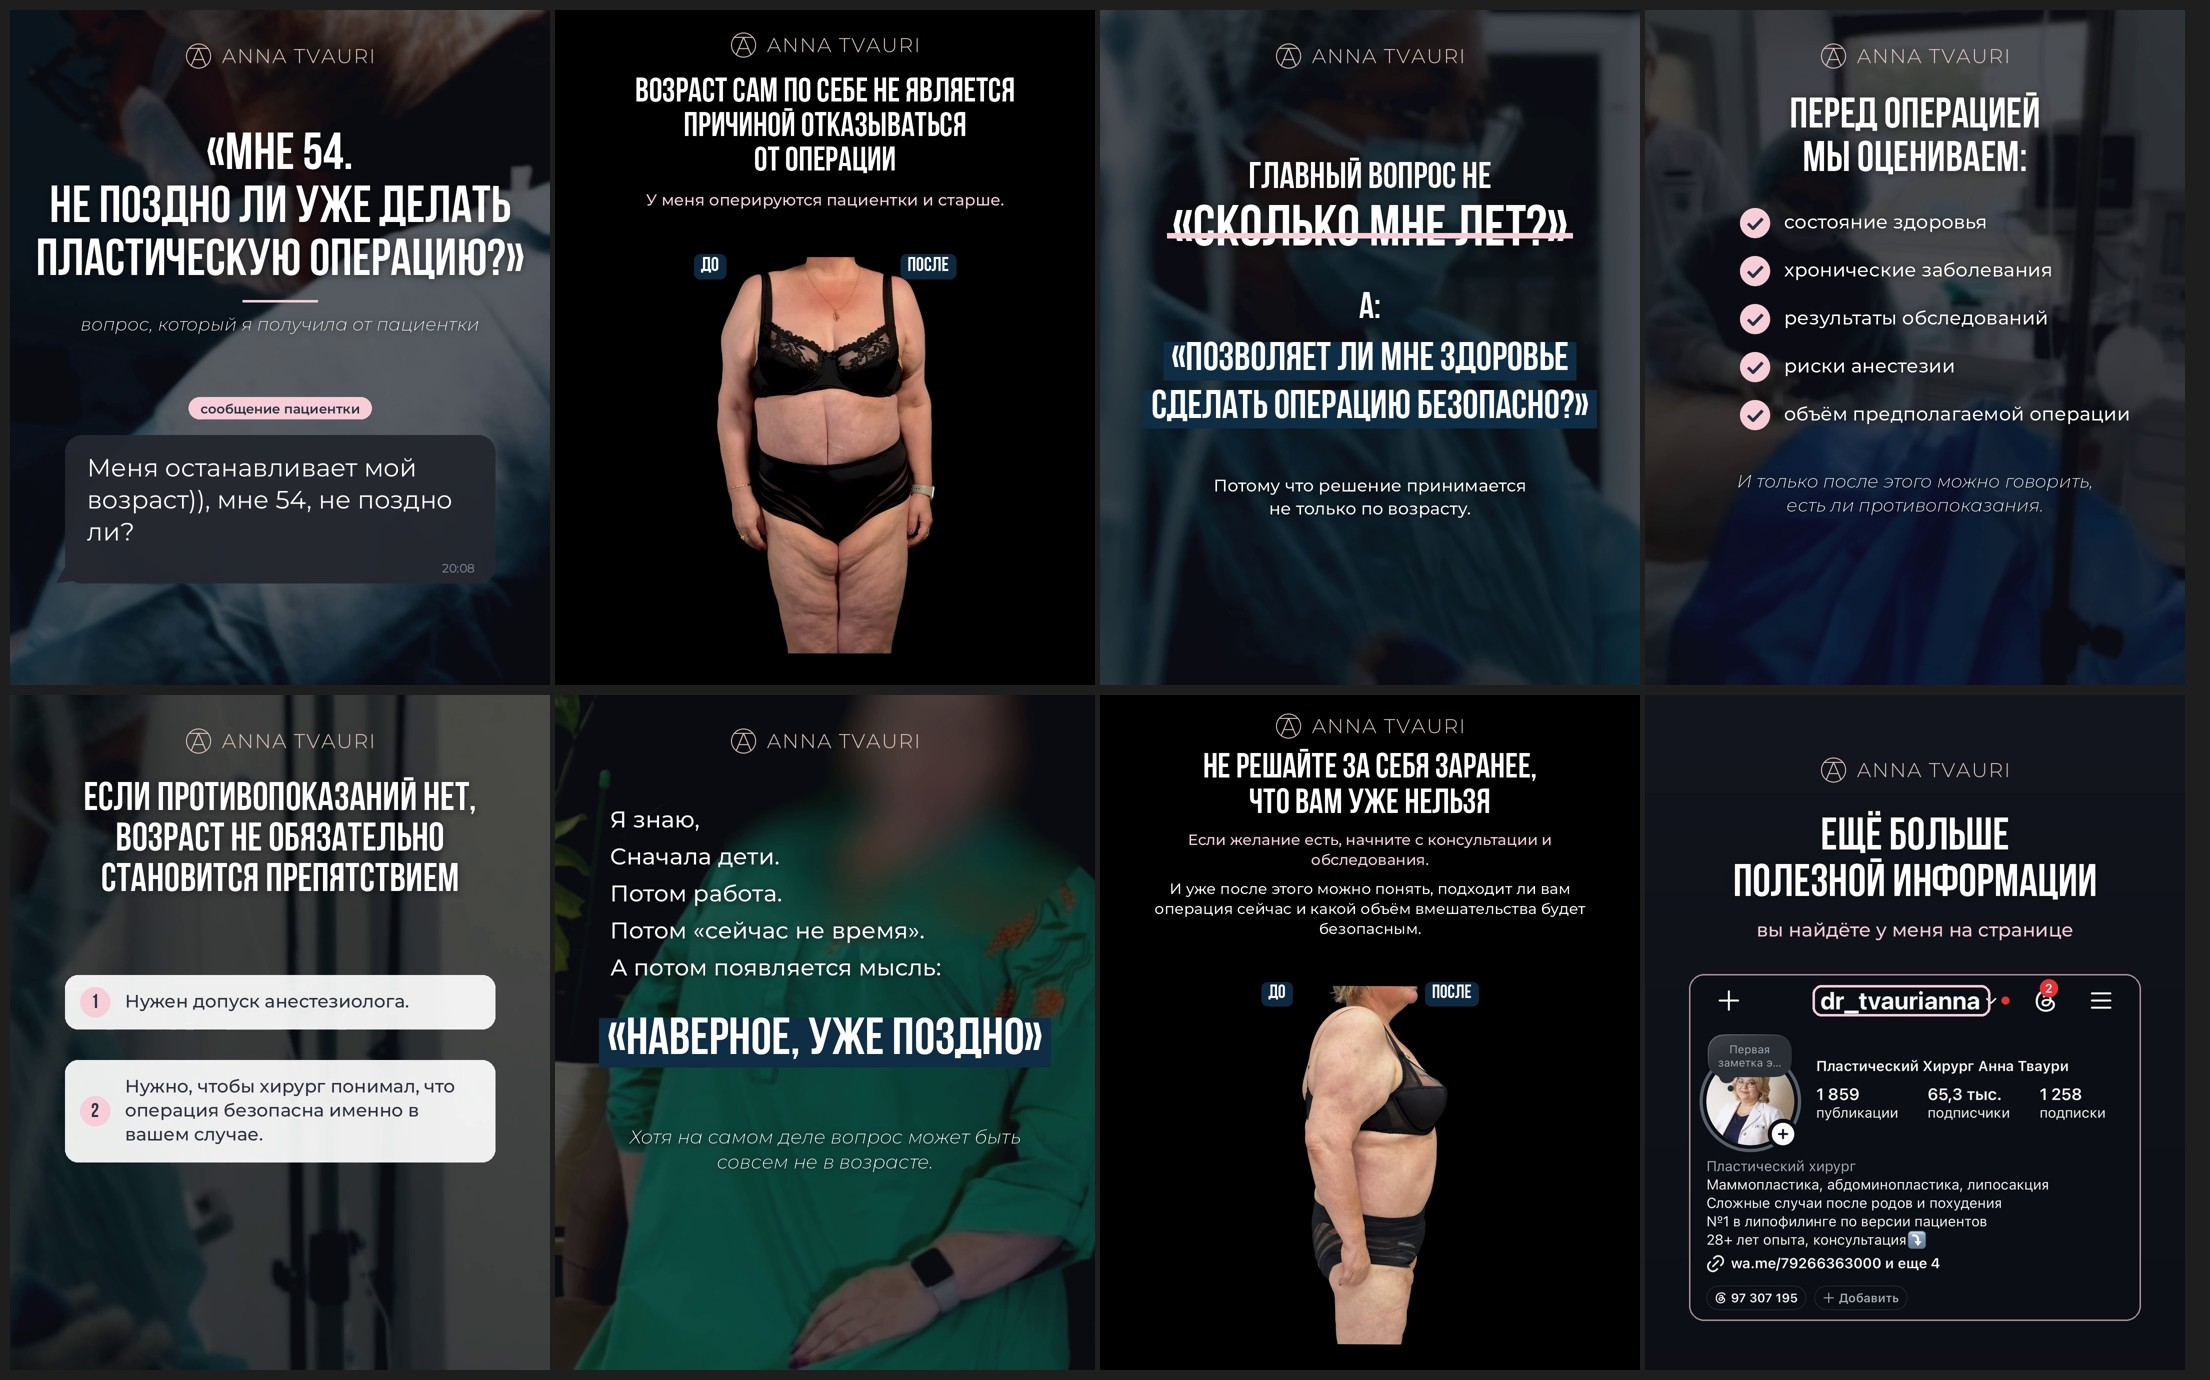
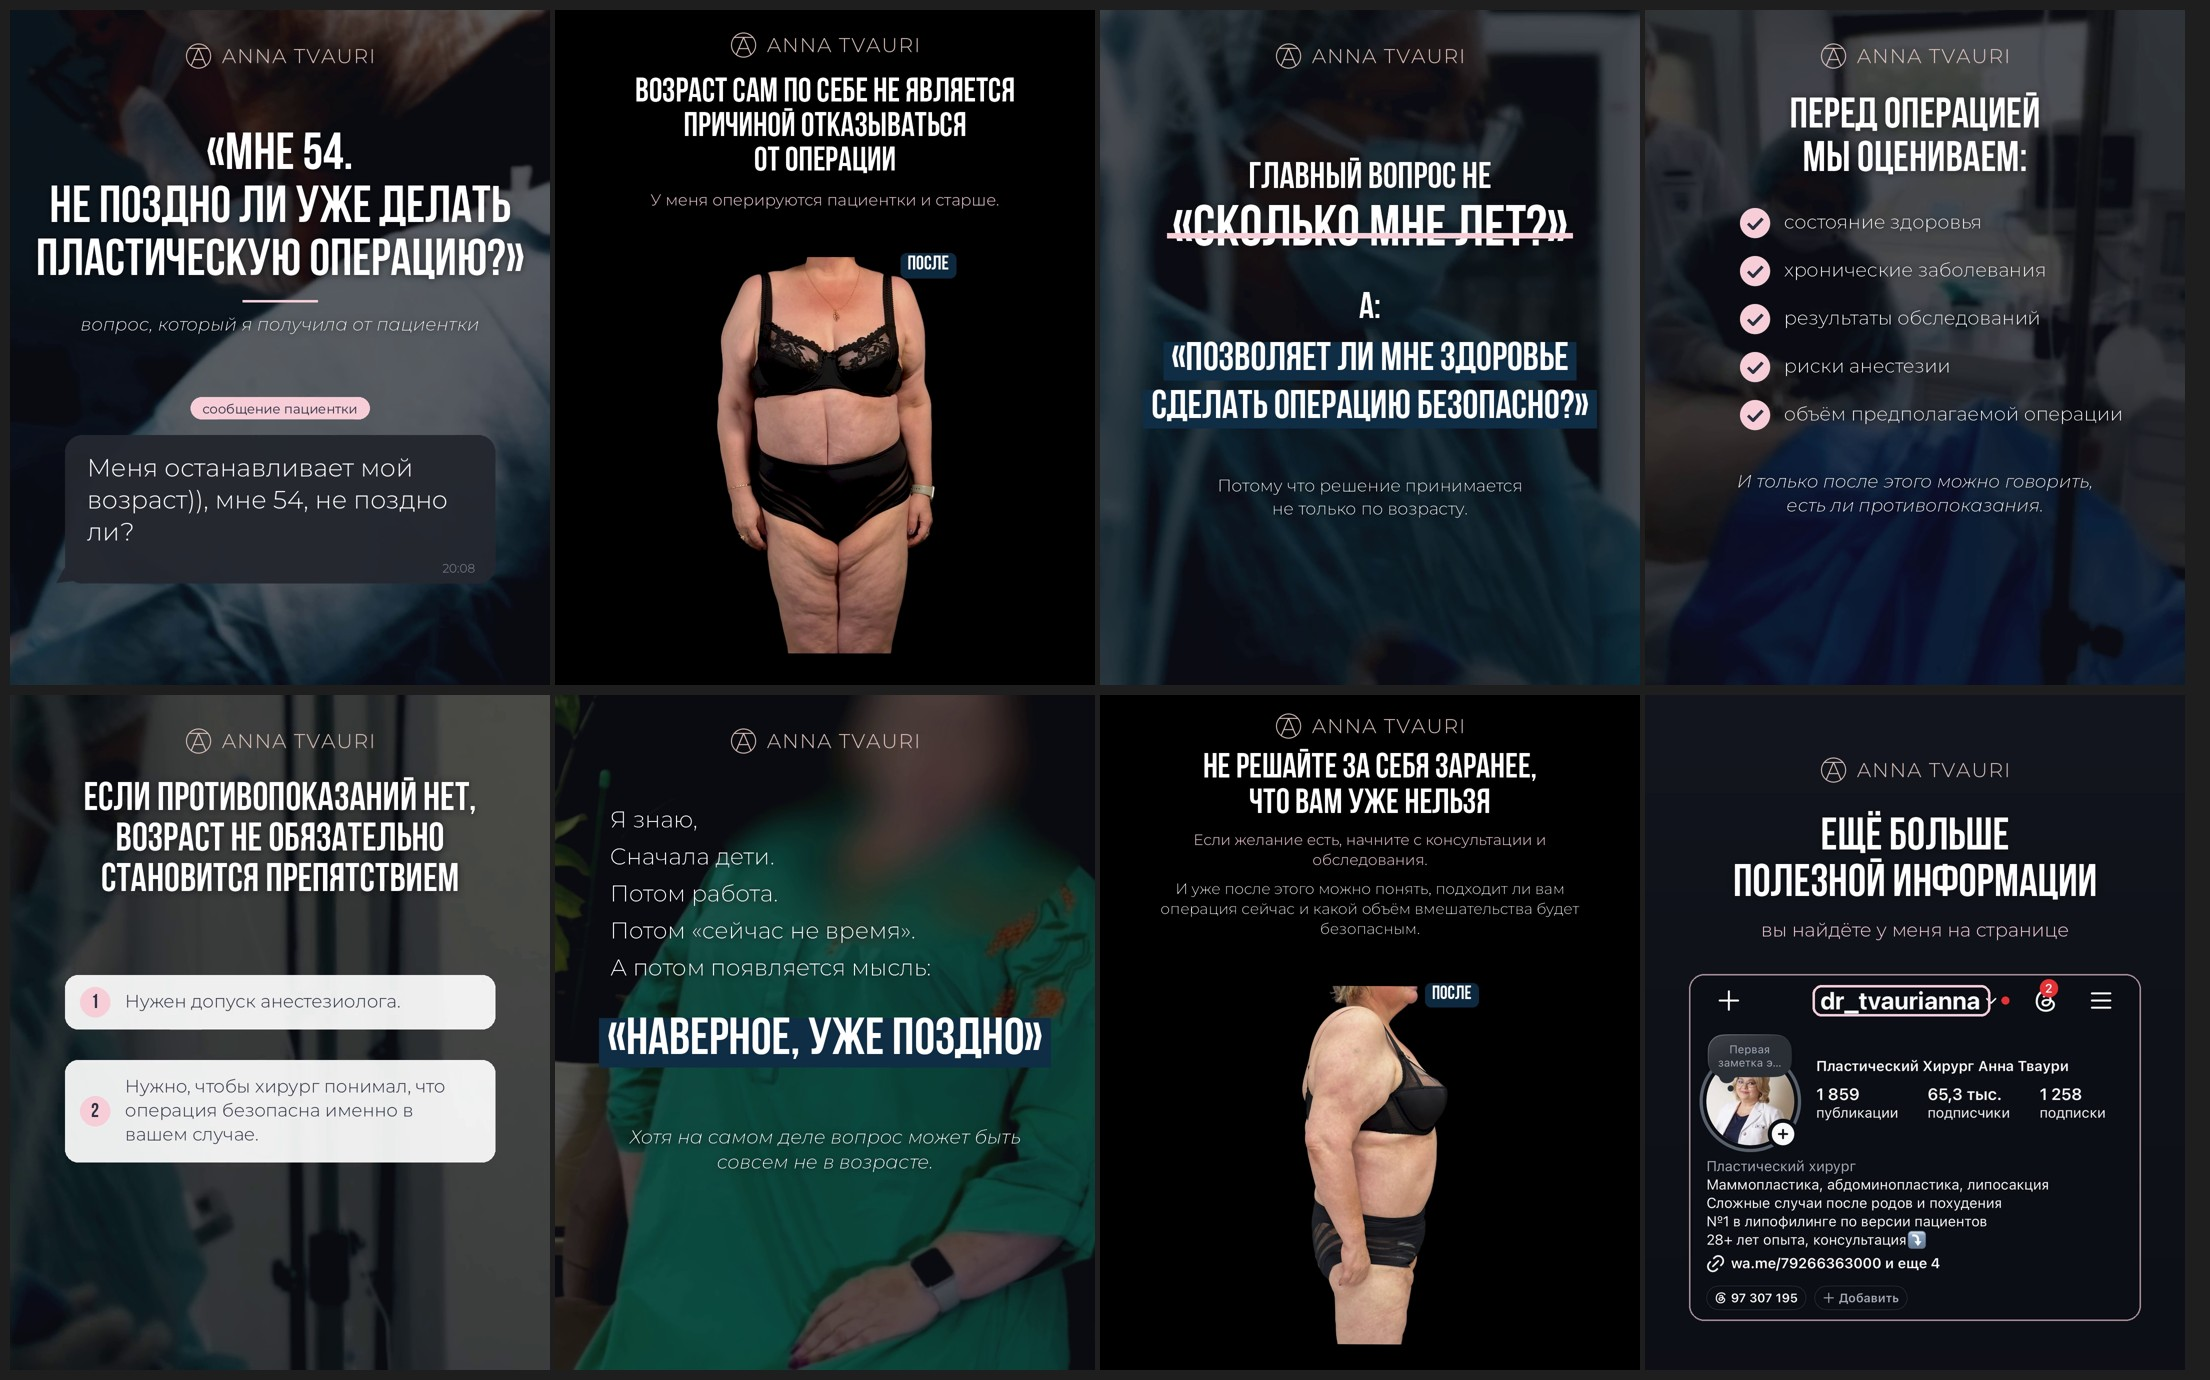
Age-54 carousel: secondary type in thin Montserrat Light
Claude-Session: https://claude.ai/code/session_01XB7jWmRDxB52StXcRzXaWE

diff --git a/tools/post_age54.py b/tools/post_age54.py
@@ -219,7 +219,7 @@ def render(name, dur, bg, els, voice=None, at=0.4, post=None):
 
 
 B = ct.bebas
-M = lambda s, w=500: ct.mont(s, w)
+M = lambda s, w=300: ct.mont(s, w)  # secondary type: thin Montserrat Light
 MI = lambda s: ct.mont(s, 300, italic=True)
 
 
@@ -232,15 +232,15 @@ def s1():
            El(rule(580), 0.0, "fade", 0.01),
            El(text_center(["вопрос, который я получила от пациентки"], MI(36), 606), 0.0, "fade", 0.01)]
     # the message itself, redrawn without the sender's name or avatar
-    im = layer(); d = ImageDraw.Draw(im); f = M(50, 400)
+    im = layer(); d = ImageDraw.Draw(im); f = M(50)
     lines = wrap("Меня останавливает мой возраст)), мне 54, не поздно ли?", f, 760)
     bw, bh = 860, 60 + 64 * len(lines) + 44; x0, y0 = (W - bw) // 2, 850
     d.rounded_rectangle((x0, y0, x0 + bw, y0 + bh), radius=34, fill=(38, 41, 48, 245))
     d.polygon([(x0 + 4, y0 + bh - 40), (x0 - 18, y0 + bh), (x0 + 40, y0 + bh - 8)], fill=(38, 41, 48, 245))
     for i, ln in enumerate(lines): d.text((x0 + 44, y0 + 34 + i * 64), ln, font=f, fill=WHITE)
-    d.text((x0 + bw - 40, y0 + bh - 30), "20:08", font=M(24, 400), fill=(140, 146, 160), anchor="rm")
+    d.text((x0 + bw - 40, y0 + bh - 30), "20:08", font=M(24), fill=(140, 146, 160), anchor="rm")
     els.append(El(im, 3.3, "pop", 0.55))
-    els.append(El(pill("сообщение пациентки", M(26, 600), W // 2, y0 - 76), 3.1, "rise"))
+    els.append(El(pill("сообщение пациентки", M(26, 400), W // 2, y0 - 76), 3.1, "rise"))
     render("01_cover", dur, video_bg("copy_28DEC6FD-30C5-4A62-A30A-83288D9DE14E.mov", 0, dur, blur=5, dim=0.58), els, (0.0, 8.0), 0.35)
 
 
@@ -276,7 +276,7 @@ def s4():
            El(text_center(["ПЕРЕД ОПЕРАЦИЕЙ", "МЫ ОЦЕНИВАЕМ:"], B(86), 170), 0.2)]
     items = ["состояние здоровья", "хронические заболевания", "результаты обследований", "риски анестезии",
              "объём предполагаемой операции"]
-    f = M(38, 500); x0 = 190
+    f = M(38); x0 = 190
     for i, it in enumerate(items):
         im = layer(); d = ImageDraw.Draw(im); y = 400 + i * 96
         S = 3; hi = Image.new("RGBA", (64 * S, 64 * S), (0, 0, 0, 0)); hd = ImageDraw.Draw(hi)
@@ -295,7 +295,7 @@ def s5():
     els = [El(logo(), 0, "fade"),
            El(text_center(["ЕСЛИ ПРОТИВОПОКАЗАНИЙ НЕТ,", "ВОЗРАСТ НЕ ОБЯЗАТЕЛЬНО", "СТАНОВИТСЯ ПРЕПЯТСТВИЕМ"], B(80), 170), 0.3)]
     def card(text, y, icon):
-        im = layer(); d = ImageDraw.Draw(im); f = M(36, 500); lines = wrap(text, f, 680)
+        im = layer(); d = ImageDraw.Draw(im); f = M(36); lines = wrap(text, f, 680)
         hh = 60 + 48 * len(lines); x0, w = 110, W - 220
         d.rounded_rectangle((x0, y, x0 + w, y + hh), radius=26, fill=(255, 255, 255, 236))
         d.ellipse((x0 + 30, y + hh / 2 - 30, x0 + 90, y + hh / 2 + 30), fill=PINK)
@@ -313,7 +313,7 @@ def s6():
     lines = [("Я знаю,", 0.3), ("Сначала дети.", 1.1), ("Потом работа.", 1.9), ("Потом «сейчас не время».", 2.7),
              ("А потом появляется мысль:", 3.8)]
     els = [El(logo(), 0, "fade")]
-    f = M(46, 500)
+    f = M(46)
     for i, (ln, t) in enumerate(lines):
         im = layer(); ct.shadow_text(im, (110, 220 + i * 74), ln, f, WHITE, blur=7, a=170); els.append(El(im, t))
     els += [El(text_center(["«НАВЕРНОЕ, УЖЕ ПОЗДНО»"], B(104), 640, box=NAVY), 4.8, "pop", 0.55),
@@ -327,7 +327,7 @@ def s7():
     cell = ((W - 470) // 2, 560, 470, 760)
     els = [El(logo(62), 0, "fade"),
            El(text_center(["НЕ РЕШАЙТЕ ЗА СЕБЯ ЗАРАНЕЕ,", "ЧТО ВАМ УЖЕ НЕЛЬЗЯ"], B(70), 112), 0.2)]
-    f = M(30, 500)
+    f = M(30)
     t1 = wrap("Если желание есть, начните с консультации и обследования.", f, 900)
     t2 = wrap("И уже после этого можно понять, подходит ли вам операция сейчас и какой объём вмешательства будет безопасным.", f, 900)
     els += [El(text_center(t1, f, 270, color=PINK, lh=40), 1.0),
